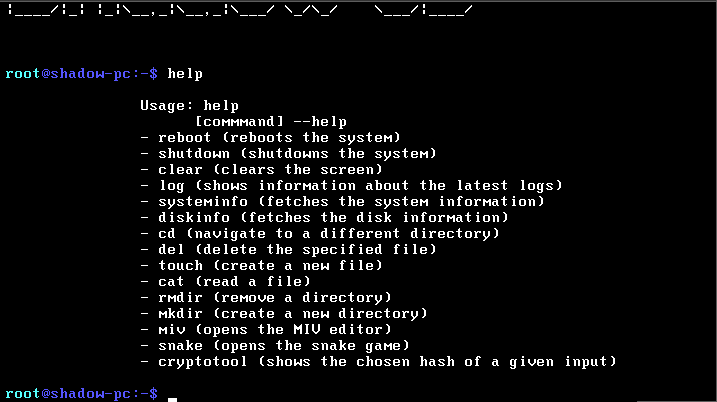
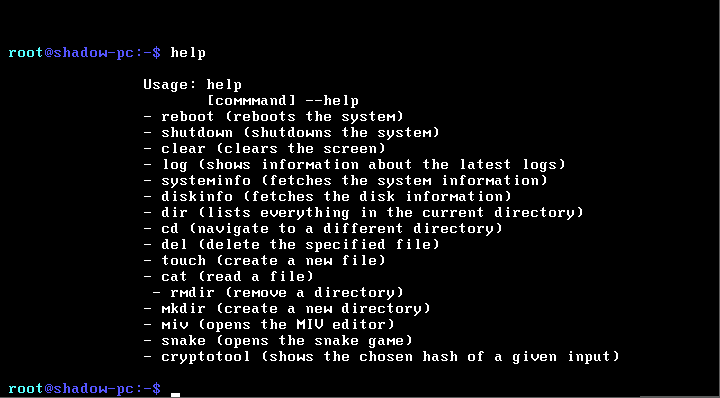
corrected the code

Changed region(s): [[0.0, 0.1206, 0.8591, 0.9347], [0.0, 0.9648, 1.0, 1.0], [0.0, 0.0, 1.0, 0.0603]]

diff --git a/ShadowOS/Translation/Text.cs b/ShadowOS/Translation/Text.cs
@@ -14,18 +14,19 @@ namespace Shadow_OS.Translation
                 case "en_us":
                     Console.WriteLine(@"
                 Usage: help
-                      [commmand] --help
+                       [commmand] --help
                 - reboot (reboots the system)
                 - shutdown (shutdowns the system)
                 - clear (clears the screen)
                 - log (shows information about the latest logs)
                 - systeminfo (fetches the system information)
                 - diskinfo (fetches the disk information)
+                - dir (lists everything in the current directory)
                 - cd (navigate to a different directory)
                 - del (delete the specified file)
                 - touch (create a new file)
                 - cat (read a file)
-                - rmdir (remove a directory)
+                 - rmdir (remove a directory)
                 - mkdir (create a new directory)
                 - miv (opens the MIV editor)
                 - snake (opens the snake game)
@@ -35,13 +36,14 @@ namespace Shadow_OS.Translation
                 case "da":
                     Console.WriteLine(@"
                Brug: help
-                      [kommando] --help
+                     [kommando] --help
                 - reboot (genstarter systemet)
                 - shutdown (lukker systemet ned)
                 - clear (rydder skærmen)
                 - log (viser information om de seneste crash logs)
                 - systeminfo (henter systemoplysningernene)
                 - diskinfo (henter diskoplysningerne)
+                - dir (lister alt i det nuværende mappe)
                 - cd (naviger til den oenskede sti)
                 - del (slet den angivne fil)
                 - touch (skab en ny fil)
@@ -55,23 +57,24 @@ namespace Shadow_OS.Translation
                     break;
                 case "so":
                     Console.WriteLine(@"
-                Isticmaalid: help
-                            [amar] --help
-                - reboot (wuxu dib u daaraya system ka)
-                - shutdown (wuxu xidhaya system ka)
-                - clear (wuxu masaxaya shaashada)
-                - log (wuxu ku tusaya crash logs ga ugu dambyeeys)
-                - systeminfo (wuxu soo qabanaya macluumaadka system ka)
-                - diskinfo (wuxu soo qabanaya macluumaadka dhisgika)
-                - cd (qabo direktoriga aad doonaysid)
-                - del (masax faylka aad u sheegtid)
-                - touch (samee fayl cusub)
-                - cat (akhri fayl)
-                - rmdir (masax direktori)
-                - mkdir (samee direktori cusub)
-                - miv (wuxu furaya MIV)
-                - snake (wuxu furaya ciyaarta Snake)
-                - cryptotool (wuxu ku tusaya hash ga waxaad gelisid)
+             Isticmaalid: help
+                          [amar] --help
+             - reboot (wuxu dib u daaraya system ka)
+             - shutdown (wuxu xidhaya system ka)
+             - clear (wuxu masaxaya shaashada)
+             - log (wuxu ku tusaya crash logs ga ugu dambyeeys)
+             - systeminfo (wuxu soo qabanaya macluumaadka system ka)
+             - diskinfo (wuxu soo qabanaya macluumaadka dhisgika)
+             - dir (wuxu taxahaya wax walba ee ku jira direktoriga aad joogtid)
+             - cd (qabo direktoriga aad doonaysid)
+             - del (masax faylka aad u sheegtid)
+             - touch (samee fayl cusub)
+             - cat (akhri fayl)
+             - rmdir (masax direktori)
+             - mkdir (samee direktori cusub)
+             - miv (wuxu furaya MIV)
+             - snake (wuxu furaya ciyaarta Snake)
+             - cryptotool (wuxu ku tusaya hash ga waxaad gelisid)
                                         ");
                     break;
 

diff --git a/ShadowOS/Translation/Help.cs b/ShadowOS/Translation/Help.cs
@@ -108,15 +108,15 @@ namespace Shadow_OS.Translation
             switch (Kernel.Lang)
             {
                 case "en_us":
-                    Console.WriteLine("Description: Lists all the files and directories of the current directory");
+                    Console.WriteLine("Description: Lists everything in the current directory");
                     break;
 
                 case "da":
-                    Console.WriteLine("Beskrivelse: Lister alle filer og mapper i det nuværende mappe");
+                    Console.WriteLine("Beskrivelse: Lister alt i det nuværende mappe");
                     break;
 
                 case "so":
-                    Console.WriteLine("Faafaahin: Wuxu taxahaya faylasha iyo direktoriisga ku jira direktoriga aad joogtid");
+                    Console.WriteLine("Faafaahin: Wuxu taxahaya wax walba ee ku jira direktoriga aad joogtid");
                     break;
 
             }

diff --git a/ShadowOS/Translation/Init.cs b/ShadowOS/Translation/Init.cs
@@ -25,7 +25,7 @@ namespace Shadow_OS.Translation
                 }
             else
             {
-                Kernel.Lang = "en_us";
+                TranslationSetup();
             }
         }
 
